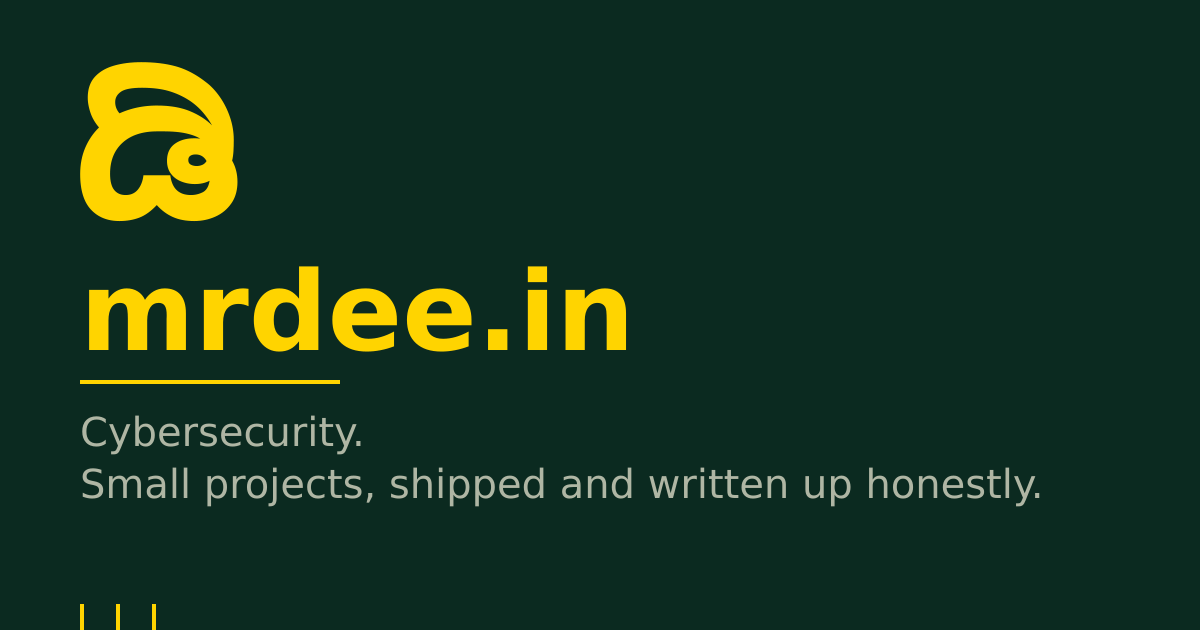
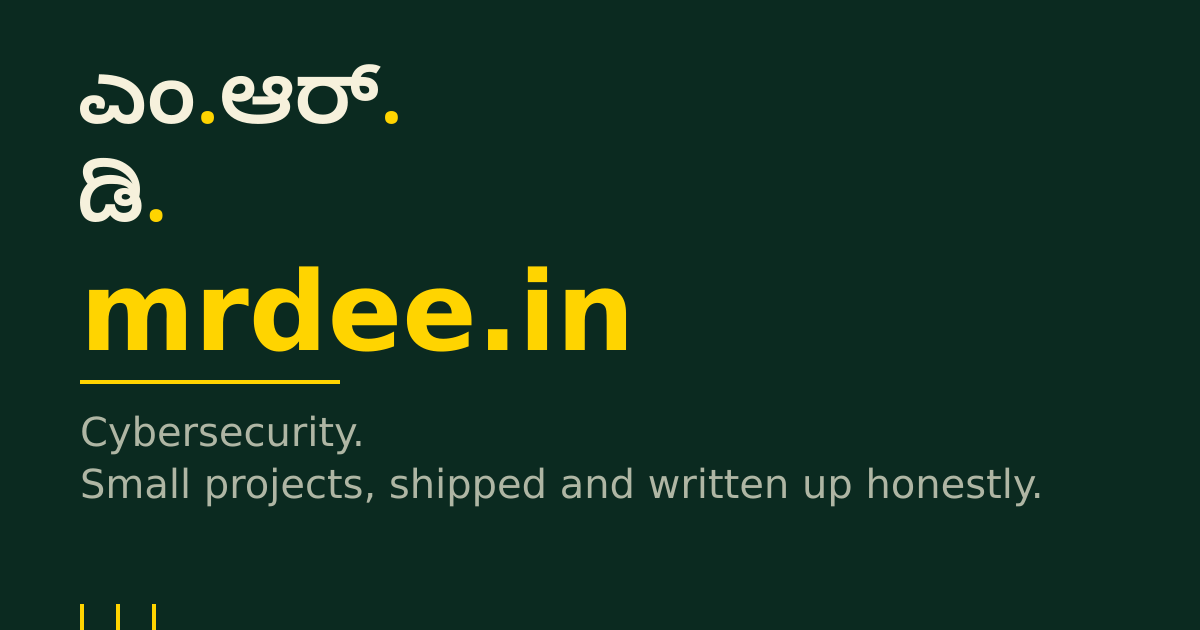
OG card: use the ಎಂ.ಆರ್.ಡಿ. lockup instead of the old ಡಿ mark
scripts/gen-favicon.py now also writes tools/og/glyph.svg, the bare lockup
cropped to its ink box, and tools/og/render.mjs places that by its viewBox
at the top-left of the card in the favicon's own colours. Card and icon
therefore carry the same mark from one source. Favicon outputs are
byte-identical to the previous commit.

Changed region(s): [[0.0617, 0.0905, 0.3392, 0.3619], [0.3083, 0.181, 0.3392, 0.2111]]

diff --git a/scripts/gen-favicon.py b/scripts/gen-favicon.py
@@ -12,6 +12,7 @@ so the text goes through HarfBuzz once and the shaped outlines become paths;
 nothing depends on a font at view time.
 
 Dependencies:  pip install uharfbuzz fonttools cairosvg pillow
+It also writes tools/og/glyph.svg, the bare lockup the social card reuses.
 The font (Noto Sans Kannada, variable) is fetched from google/fonts into
 scripts/.fonts/ on first run; that directory is gitignored.
 
@@ -34,6 +35,9 @@ from PIL import Image
 
 ROOT = Path(__file__).resolve().parent.parent
 STATIC = ROOT / "static"
+# The bare lockup (no tile) is also written here for the social card, so
+# tools/og/render.mjs draws exactly the mark the favicon uses.
+OG_GLYPH = ROOT / "tools" / "og" / "glyph.svg"
 FONT_URL = (
     "https://raw.githubusercontent.com/google/fonts/main/ofl/notosanskannada/"
     "NotoSansKannada%5Bwdth%2Cwght%5D.ttf"
@@ -141,11 +145,18 @@ def compose(tt, data):
             scale,
         )
 
-    return (
+    mark = f"{place(top, y)}\n{place(bottom, y + line_h + gap)}"
+    tile = (
         f'<svg viewBox="0 0 {SVG_SIZE} {SVG_SIZE}" xmlns="http://www.w3.org/2000/svg">\n'
         f'<rect width="{SVG_SIZE}" height="{SVG_SIZE}" rx="{CORNER}" ry="{CORNER}" fill="{BG}"/>\n'
-        f"{place(top, y)}\n{place(bottom, y + line_h + gap)}\n</svg>\n"
+        f"{mark}\n</svg>\n"
     )
+    # viewBox cropped to the lockup's ink box: left edge at PAD, top line spans `inner`
+    bare = (
+        f'<svg viewBox="{PAD} {y:.2f} {inner} {2 * line_h + gap:.2f}" xmlns="http://www.w3.org/2000/svg">\n'
+        f"{mark}\n</svg>\n"
+    )
+    return tile, bare
 
 
 def render_png(svg, size):
@@ -156,9 +167,11 @@ def render_png(svg, size):
 
 def main():
     tt, data = ensure_font()
-    svg = compose(tt, data)
+    svg, bare = compose(tt, data)
     (STATIC / "favicon.svg").write_text(svg, encoding="utf-8")
     print(f"  favicon.svg  ({len(svg)} bytes)")
+    OG_GLYPH.write_text(bare, encoding="utf-8")
+    print(f"  {OG_GLYPH.relative_to(ROOT)}  ({len(bare)} bytes)")
     for size, name in PNG_TARGETS.items():
         render_png(svg, size).save(STATIC / name, optimize=True)
         print(f"  {name}")
